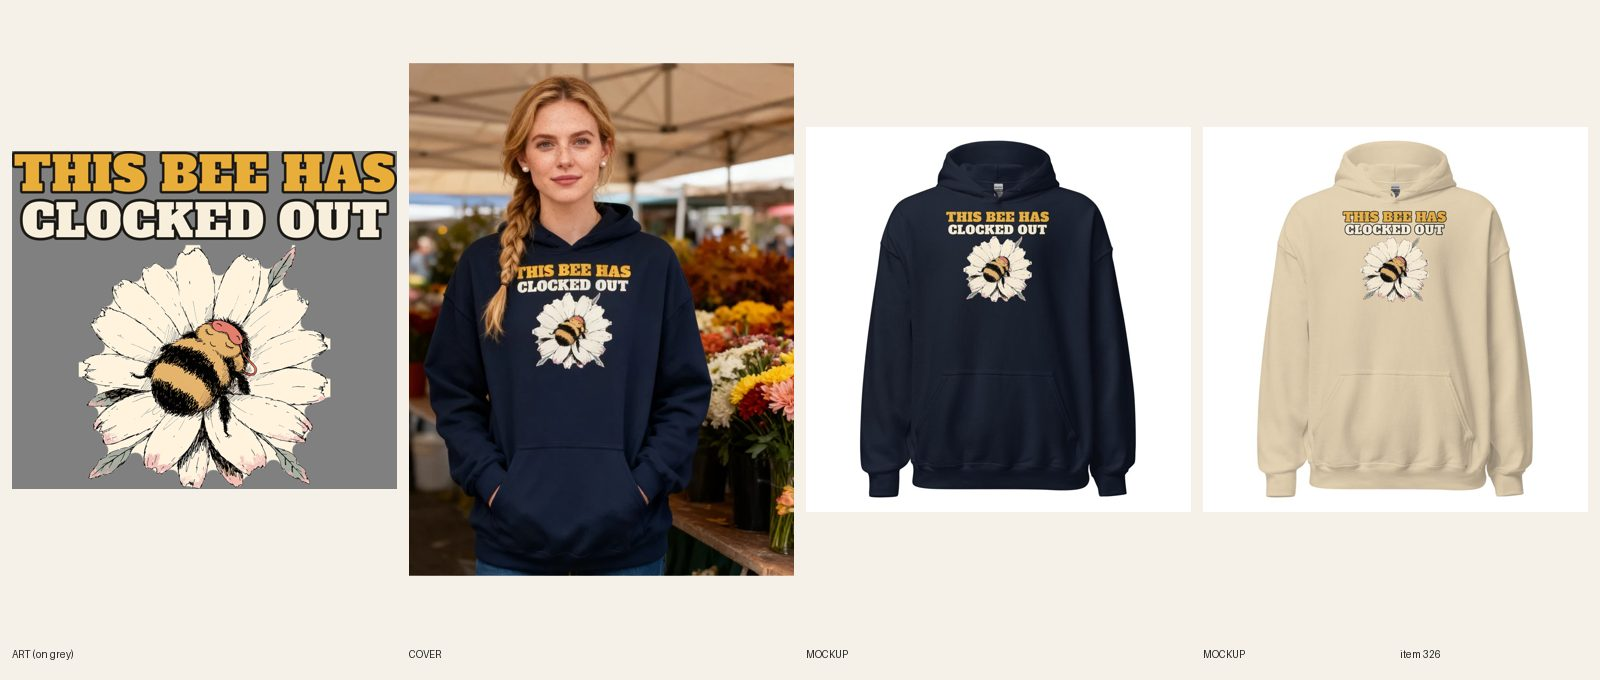
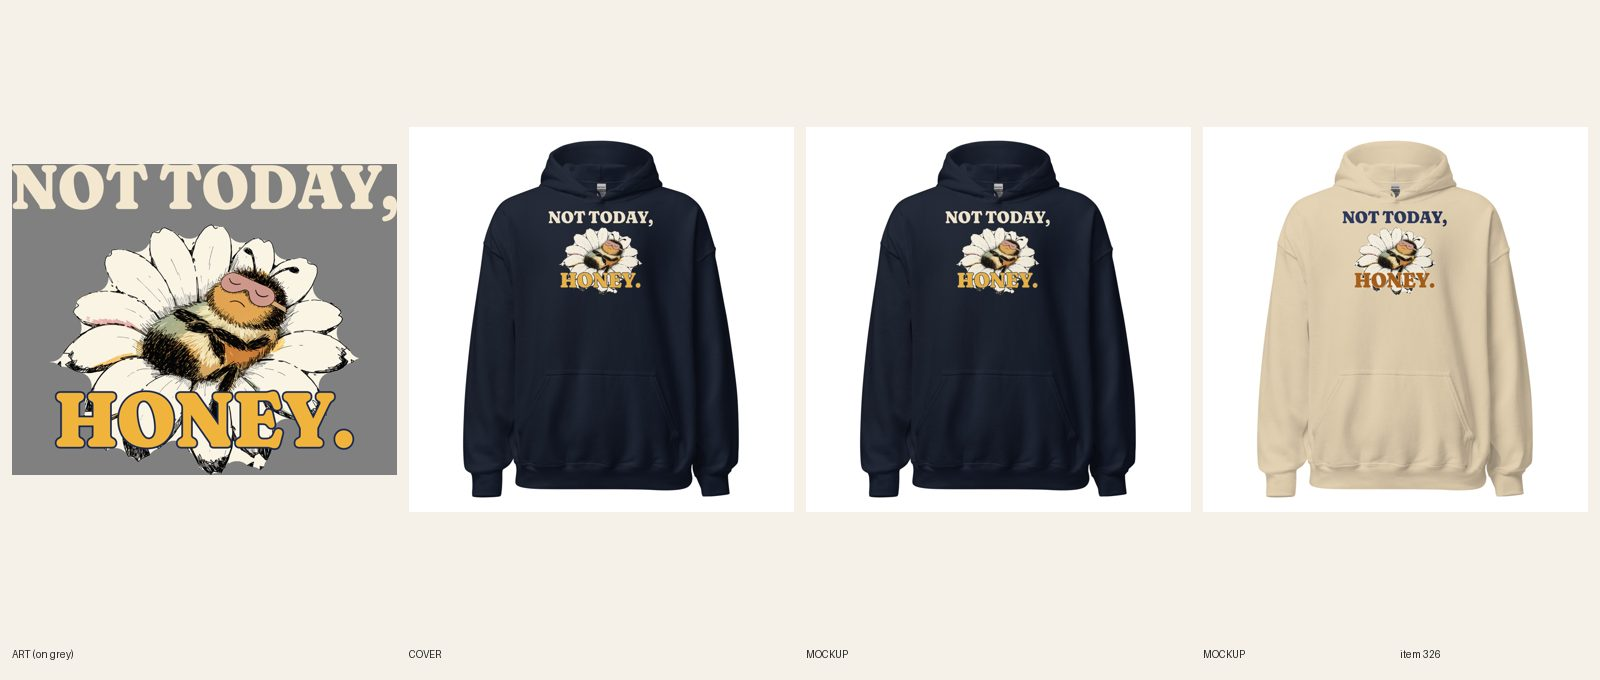
[E] review 326 Not Today, Honey bee hoodie (line + type redo)

Changed region(s): [[0.0, 0.0926, 0.5, 0.8647], [0.8125, 0.3088, 0.9062, 0.4632], [0.5938, 0.3088, 0.6562, 0.4632]]

diff --git a/designs/e326b/compose.py b/designs/e326b/compose.py
@@ -1,0 +1,40 @@
+#!/usr/bin/env python3
+"""#326 redo: NOT TODAY, / HONEY. over the sleeping-bee daisy. Fraunces Black (soft). Headline full print width, HONEY. breaks into the lower petals.
+navy file (Navy hoodie): cream + honey gold, cream halo on the art. sand file (Sand hoodie): navy + burnt amber, cream keyline only on HONEY."""
+import subprocess, sys
+from PIL import Image, ImageDraw, ImageFont, ImageFilter
+F = 'designs/fonts/Fraunces[SOFT,WONK,opsz,wght].ttf'
+W = 3600
+def line(text, width, fill, stroke, sfill):
+    size = 200
+    while True:
+        f = ImageFont.truetype(F, size); f.set_variation_by_axes([144, 900, 100, 0])
+        bb = f.getbbox(text, stroke_width=stroke)
+        if bb[2] - bb[0] >= width or size > 3000: break
+        size += 8
+    im = Image.new('RGBA', (bb[2] - bb[0] + 40, bb[3] - bb[1] + 40), (0, 0, 0, 0))
+    ImageDraw.Draw(im).text((20 - bb[0], 20 - bb[1]), text, font=f, fill=fill, stroke_width=stroke, stroke_fill=sfill)
+    return im.crop(im.getbbox())
+def build(out, c1, c2, s1, s2, k1, k2, halo):
+    subprocess.run([sys.executable, 'designs/e326b/fill.py'], check=True)
+    art = Image.open('designs/e326b/_art.png').convert('RGBA'); art = art.crop(art.getbbox())
+    if halo:
+        r = halo; a = art.split()[3].point(lambda v: 255 if v > 40 else 0)
+        grown = a.filter(ImageFilter.MaxFilter(2 * r + 1)).filter(ImageFilter.GaussianBlur(2))
+        ring = Image.new('RGBA', art.size, '#f3e7cf'); ring.putalpha(grown)
+        pad = Image.new('RGBA', (art.width + 2 * r, art.height + 2 * r), (0, 0, 0, 0))
+        pad.alpha_composite(ring, (r, r)); pad.alpha_composite(art, (r, r)); art = pad
+    l1 = line('NOT TODAY,', W, c1, k1, s1)
+    l2 = line('HONEY.', int(art.width * 0.98), c2, k2, s2)
+    H = l1.height + 30 + art.height
+    o = Image.new('RGBA', (W, H), (0, 0, 0, 0))
+    o.alpha_composite(art, ((W - art.width) // 2, l1.height + 30))
+    o.alpha_composite(l1, ((W - l1.width) // 2, 0))
+    # HONEY. breaks into the lower petals: bottom of the word sits ~12% above the art's bottom edge
+    y2 = H - int(art.height * 0.10) - l2.height
+    o.alpha_composite(l2, ((W - l2.width) // 2, y2))
+    o = o.crop(o.getbbox()); o.save(out, dpi=(300, 300))
+    print(out, o.size, 'tall in at FW1500:', round(o.height / o.width * 1500 / 150, 1), 'l1 w/art w', l1.width / art.width, 'l2/l1 h', l2.height / l1.height)
+CREAM, GOLD, NAVY, AMBER = '#f3e7cf', '#f0b43c', '#1c2a52', '#a85a0e'
+build('designs/e326b/print_navy.png', CREAM, GOLD, NAVY, NAVY, 0, 16, 0)
+build('designs/e326b/print_sand.png', NAVY, AMBER, CREAM, CREAM, 0, 14, 0)

diff --git a/designs/e326b/fill.py b/designs/e326b/fill.py
@@ -1,0 +1,19 @@
+#!/usr/bin/env python3
+"""Make the daisy petals solid cream: close the outline gaps, fill the silhouette, keep the original ink on top. Writes designs/e326b/_art.png (RGBA, 0.8*3600 wide)."""
+import cv2, numpy as np
+from PIL import Image
+im = cv2.imread('designs/e326b/art.png'); g = cv2.cvtColor(im, cv2.COLOR_BGR2GRAY)
+ink = (g < 235).astype(np.uint8) * 255
+k = cv2.getStructuringElement(cv2.MORPH_ELLIPSE, (91, 91))
+closed = cv2.morphologyEx(ink, cv2.MORPH_CLOSE, k)
+cnts, _ = cv2.findContours(closed, cv2.RETR_EXTERNAL, cv2.CHAIN_APPROX_SIMPLE)
+sil = np.zeros_like(ink); cv2.drawContours(sil, cnts, -1, 255, -1)
+sil = cv2.erode(sil, cv2.getStructuringElement(cv2.MORPH_ELLIPSE, (5, 5)))
+rgb = cv2.cvtColor(im, cv2.COLOR_BGR2RGB)
+white = (g >= 235) & (sil > 0)
+rgb[white] = (250, 244, 228)
+# knock white back out only where it is outside the filled silhouette
+a = np.where(sil > 0, 255, np.where(ink > 0, 255, 0)).astype(np.uint8)
+out = Image.fromarray(np.dstack([rgb, a]), 'RGBA'); out = out.crop(out.getbbox())
+w = int(3600 * 0.8); out = out.resize((w, int(out.height * w / out.width)), Image.LANCZOS)
+out.save('designs/e326b/_art.png')

diff --git a/docs/pipeline/326-bee-hoodie-busy-bee-off-duty.md b/docs/pipeline/326-bee-hoodie-busy-bee-off-duty.md
@@ -1,4 +1,4 @@
-status: BUILDING [E] 2026-10-20 02:58 UTC
+status: REVIEW
 lane: E
 type: new
 id: 326
@@ -31,3 +31,4 @@ kd: 20
 - 2026-10-17 22:00 UTC builder [E]: Built (REVIEW when sync = 12/12). Line per the 20:25 note: THIS BEE HAS / CLOCKED OUT. Art: sleeping bee in a daisy with a sleep mask (Recraft 1 call, picture only, no Zzz); daisy petals filled cream so the outline reads on Navy (spill of cream between a few petals at the left edge). Words Alfa Slab honey gold + cream, dark outline. Print 3415x2996, FW 1500 TOP 0, file 1088495867. Navy + Sand fronts + back attached per color. Shopify title/SEO/copy now 'Women's Bee – This Bee Has Clocked Out Hoodie' (handle unchanged). Cover: registry 512, seedream 2 attempts (1st braid over the T of THIS; 2nd braid behind, T clear), hands in pouch, bands cropped. fal ~$0.18.
 - 2026-10-17 22:39 UTC director: APPROVED, LIVE. ACTIVE + Online Store, Headless and Google & YouTube; audit --handle PASS (0 warn). Copy polished by the director first (R8: keyword counts, superlatives, false claims).
 - 2026-10-18 17:22 UTC director: QUALITY RESET grade C (new line + type), REDO. The product stays ACTIVE (same handle, URL, title keyword). 1. Line (R3.12, quality-reset 'Lines'): "THIS BEE HAS / CLOCKED OUT": Just describes the sleeping bee; mild, no surprise. Write 5 candidates, keep the one a stranger laughs at in 3 seconds without backstory; kill lines that only describe the picture; if none of the 5 is funny, PARK it. 2. Quality reset type bar (docs/backlog/quality-reset.md, 'The new bar'): headline at least 90% of the art width, heavy, colors pulled from the art; second line at least 45% of the headline's height, never a thin script on a dark or mid garment; use the lettering as a shape (arch, stacked lockup, words breaking into the art), not a plain bar above and a script line below; no font used on more than 1 in 6 of the last 30 designs. 3. Keep the art if it carries the new line, else one new illustration (R4/R5). New print means a new cover per R6.10, copy line one rewritten for the new joke (R8.3), and a fresh review sheet (R7.7). While quality-reset.md says PAUSED, only lane A builds, and only the samples step 2 names.
+- 2026-10-20 03:05 UTC builder [E]: REDO 326 (C grade, line + type) done on the existing product (stays ACTIVE, handle unchanged). 5 candidates: "NOT TODAY, HONEY."; "Buzz Off. Kindly."; "Out of Office. Bee Back Never."; "Zero Bees Given"; "This Bee Has Clocked Out" (old, describes the picture). Kept NOT TODAY, HONEY. (honey as the sleeper and the brush-off, 3 seconds). One new Recraft call ($0.04): same sleeping bee, no words; petals filled cream (designs/e326b/fill.py). Fraunces Black soft: NOT TODAY, at full print width, HONEY. breaks into the lower petals (about 99% of the art width). Navy file 1090117942 (cream + honey gold); Sand file 1090117951 (navy + amber, no dark keyline: light file logged for Sand). FW 1500 TOP 0, 12/12 synced on the right file per color, back logo kept. Navy + Sand fronts replaced in place, alts updated. Title "Women's Bee – Not Today, Honey Hoodie", SEO, copy line one on the print words + who + when (no superlative), FAQs ink named from the mockups. Cover: handle added to retired-covers.json (plain product shot). Phone-size read OK on both. audit --handle PASS 0 warn; astro build OK. fal $0.04. Sheet docs/review/326.jpg.

diff --git a/docs/intake-log.md b/docs/intake-log.md
@@ -1,5 +1,7 @@
 RUNNING lane E since 2026-10-20 02:50 UTC
 2026-10-20 02:55 UTC — [A] Builder run: redid #217 Women's Christmas Ho Ho Howdy hoodie (type+line: THE REINDEER QUIT. / SANTA GOT A HORSE., same cowboy Santa art, Alfa Slab full width, FW 1500 TOP 0, Sand file 1090119235 / Navy file 1090119263, 12/12 relinked, 2 fronts replaced in place, copy updated, plain product shot). REVIEW. fal $0.
+2026-10-20 03:06 UTC — [E] Builder run: redid #326 Women's Bee hoodie (line + type: NOT TODAY, HONEY., sleeping bee daisy, Navy + Sand files, 12/12 synced, fronts replaced in place, copy updated, plain product shot). REVIEW. fal $0.04.
+RUNNING helper since 2026-10-20 02:42 UTC
 RUNNING lane A since 2026-10-20 02:28 UTC
 2026-10-20 02:45 UTC — [H] Helper run: inbox empty (no Telegram updates), cohesion audit 0 errors / 29 warnings (committed), categories: 0 products missing a category, 3 recent LIVE sites 200, no stuck BUILDING items or stale locks. Daily summary not due (after 12:00 UTC). Lock released.
 2026-10-20 02:48 UTC — [A] Builder run: redid #216 Women's Christmas Hello Winter hoodie (type+line: IT'S SNOWING. / I'M STILL AT WORK., same snowflake art, Anton + Bowlby One full width, FW 1500 TOP 0, file 1090116144, 12/12 relinked, 2 fronts replaced in place, copy updated, plain product shot). REVIEW. fal $0.
